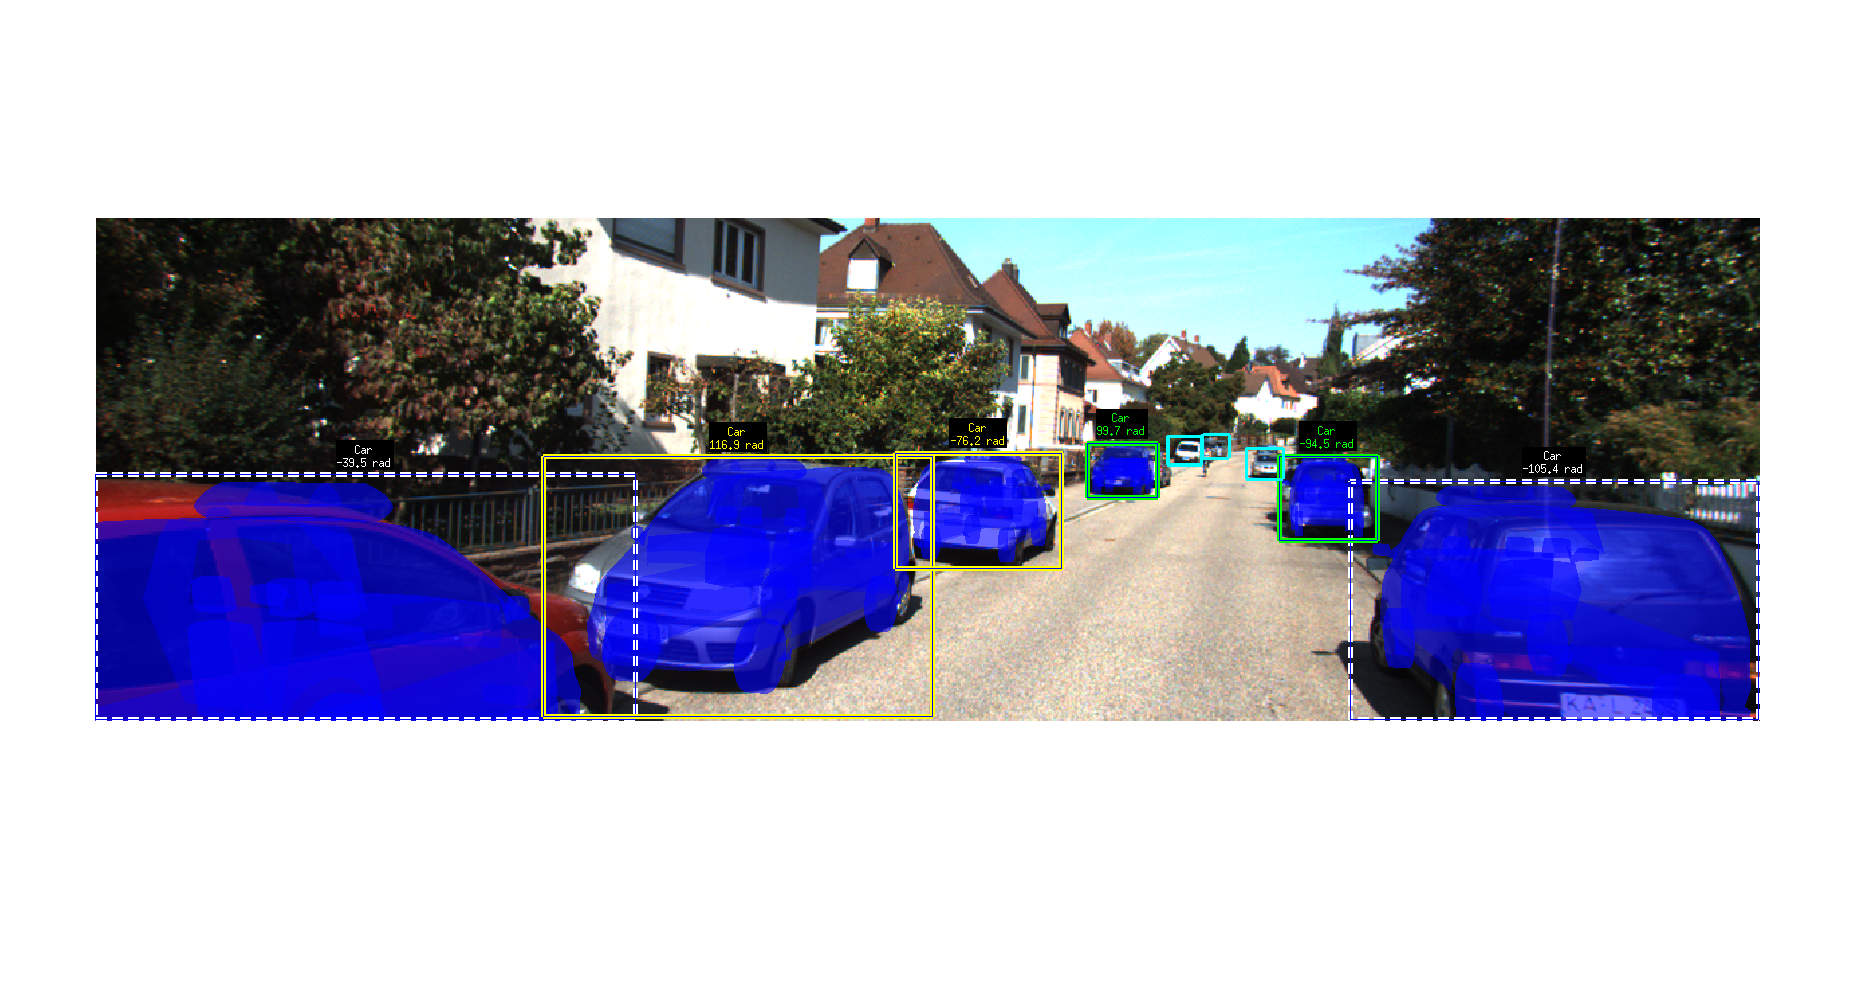
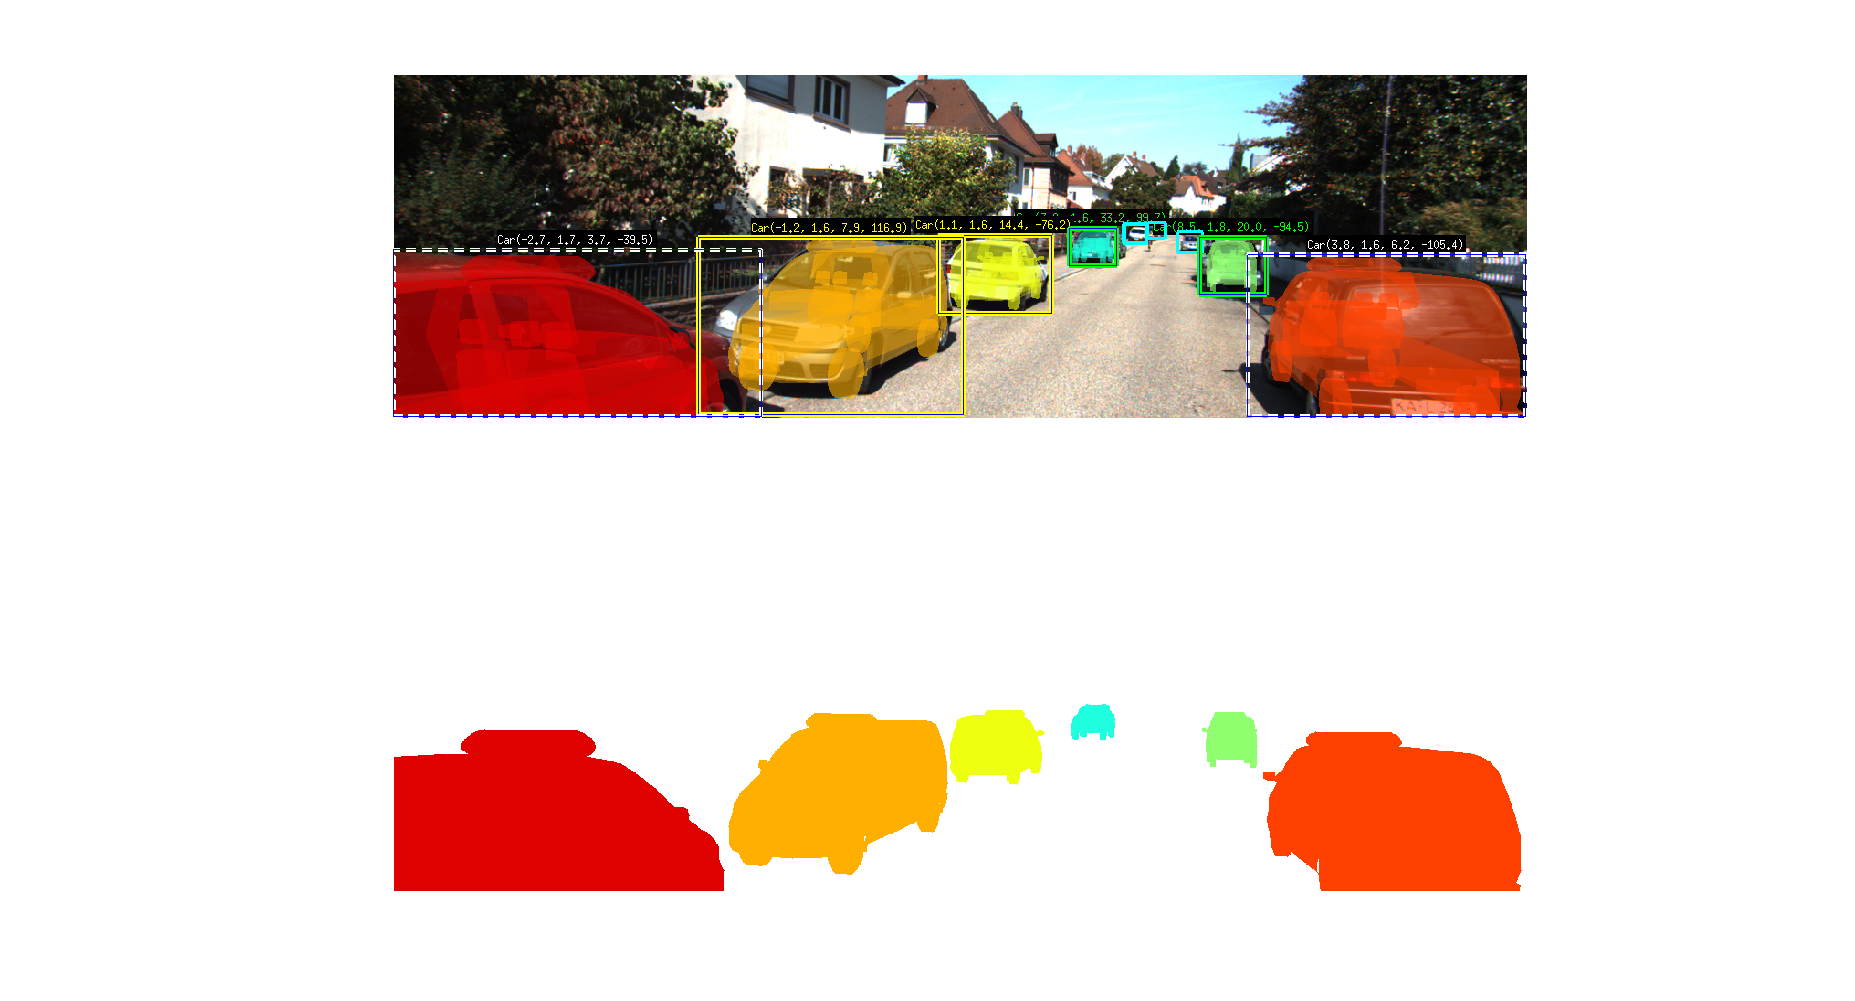
draw occlusion masks

diff --git a/KITTI/mesh_test.cpp b/KITTI/mesh_test.cpp
@@ -1,0 +1,92 @@
+#include <math.h>
+#include <matrix.h>
+#include <mex.h>
+
+#define min(a, b) (((a) <= (b)) ? (a) : (b))
+#define max(a, b) (((a) >= (b)) ? (a) : (b))
+
+void mexFunction(int nlhs, mxArray *plhs[], int nrhs, const mxArray *prhs[])
+{
+      int imgw, imgh;
+      
+      const mwSize *dimsv;
+      double *vertex_in;
+      mxLogical *outArray;
+      imgh = mxGetScalar(prhs[1]);
+      imgw = mxGetScalar(prhs[2]);
+
+      dimsv = mxGetDimensions(prhs[0]);
+
+      int dimsv_1 = (int) dimsv[0];
+
+      vertex_in = mxGetPr(prhs[0]);
+      
+      plhs[0] = mxCreateLogicalMatrix(imgh, imgw);
+      outArray = mxGetLogicals(plhs[0]);
+      
+      double x1,y1,x2,y2,x3,y3, v0x, v0y, v1x, v1y, v2x, v2y;
+      double minx, miny, maxx, maxy;
+      double dot00, dot01, dot02, dot11, dot12, invdenom;
+      double u,v;
+      for (int i = 0; i < dimsv_1; i++)
+      {
+         x1 = round(vertex_in[1 * dimsv_1 + i]);  
+         y1 = round(vertex_in[0 * dimsv_1 + i]);
+         
+         x2 = round(vertex_in[3 * dimsv_1 + i]);
+         y2 = round(vertex_in[2 * dimsv_1 + i]);
+         
+         x3 = round(vertex_in[5 * dimsv_1 + i]);
+         y3 = round(vertex_in[4 * dimsv_1 + i]);
+
+         if (x1 <= 0 || y1 <= 0 || x2 <= 0 || y2 <= 0 || x3 <= 0 || y3 <= 0 || y1 >= imgh || x1 >= imgw || y2 >= imgh || x2 >= imgw || y3>=imgh || x3 >=imgw)
+         {
+           continue;
+         }
+                   
+         minx = min(min(x1,x2),x3);
+         if (minx == 0)
+         {
+           mexPrintf("****** %d %d %d ******\n", x1, x2, x3);
+         }
+         miny = min(min(y1,y2),y3);
+
+         maxx = max(max(x1,x2),x3);
+         maxy = max(max(y1,y2),y3);
+
+         for (int mm = miny; mm <= maxy; mm=mm+1)
+            for (int nn = minx; nn <= maxx; nn=nn+1)
+            {
+               v0x = x3 - x1;
+               v0y = y3 - y1;
+
+               v1x = x2 - x1;
+               v1y = y2 - y1;
+               
+               v2x = double(nn) - x1;
+               v2y = double(mm) - y1;
+               
+               dot00 = v0x * v0x + v0y * v0y;
+               dot01 = v0x * v1x + v0y * v1y;
+               dot02 = v0x * v2x + v0y * v2y;
+               dot11 = v1x * v1x + v1y * v1y;
+               dot12 = v1x * v2x + v1y * v2y;
+
+               invdenom = 1.0 / (dot00 * dot11 - dot01 * dot01);
+               u = (dot11 * dot02 - dot01 * dot12) * invdenom;
+               v = (dot00 * dot12 - dot01 * dot02) * invdenom;
+               if ((u >= 0) && (v >= 0) && (u + v < 1))
+               {
+                  if (((nn-1)*imgh)+mm <= 0 || ((nn-1)*imgh)+mm > (imgh) * (imgw)-1)
+                  {  
+                     mexPrintf("%d %d %d %d ****** \n", ((nn-1)*imgh)+mm, nn, imgh, mm);
+                     continue;
+                  }
+                  outArray[((nn-1)*imgh)+mm] = 1;
+               }
+            }
+
+
+      }
+                                
+}

diff --git a/KITTI/show_annotations.m b/KITTI/show_annotations.m
@@ -2,6 +2,7 @@
 function show_annotations
 
 opt = globals();
+pad_size = 100;
 
 % load PASCAL3D+ cad models
 cls = 'car';
@@ -24,9 +25,14 @@ nimages = length(dir(fullfile(image_dir, '*.png')));
 
 % main loop
 figure(1);
+cmap = colormap(jet);
 for img_idx = 1:nimages-1
-  % show image  
+  % show image
+  subplot(2, 1, 1);
   I = imread(sprintf('%s/%06d.png',image_dir, img_idx));
+  [h, w, ~] = size(I);
+  mask = ones(h, w, 3);
+  mask = padarray(mask, [pad_size pad_size 0]);
   imshow(I);
   hold on;
 
@@ -35,10 +41,13 @@ for img_idx = 1:nimages-1
   
   % load labels
   objects = readLabels(label_dir,img_idx);
+  
+  % sort objects from large distance to small distance
+  index = sort_objects(objects);
  
   % for all annotated objects do
-  for obj_idx=1:numel(objects)
-   
+  for i = 1:numel(index)
+    obj_idx = index(i);
     % plot 2D bounding box
     object = objects(obj_idx);
     draw_2d_box(object);
@@ -48,17 +57,33 @@ for img_idx = 1:nimages-1
         x3d = compute_3d_points(cads(cad_index), object);
         x2d = projectToImage(x3d, P);
         face = cads(cad_index).faces;
+        index_color = 1 + floor((i-1) * size(cmap,1) / numel(index));
         
-        patch('vertices', x2d', 'faces', face, ...
-            'FaceColor', 'blue', 'FaceAlpha', 0.2, 'EdgeColor', 'none');
+        x2d = x2d';
+        patch('vertices', x2d, 'faces', face, ...
+            'FaceColor', cmap(index_color,:), 'FaceAlpha', 0.2, 'EdgeColor', 'none');
+        
+        x2d = x2d + pad_size;
+        vertices = [x2d(face(:,1),2) x2d(face(:,1),1) ...
+                    x2d(face(:,2),2) x2d(face(:,2),1) ...
+                    x2d(face(:,3),2) x2d(face(:,3),1)];
+
+        BW = mesh_test(vertices, h+2*pad_size, w+2*pad_size);
+        
+        for j = 1:3
+            tmp = mask(:,:,j);
+            tmp(BW) = cmap(index_color,j);
+            mask(:,:,j) = tmp;
+        end
     end
-    
-    % plot 3D bounding box
-%     [corners,face_idx] = computeBox3D(objects(obj_idx),P);
-%     orientation = computeOrientation3D(objects(obj_idx),P);
-%     drawBox3D(h, objects(obj_idx),corners,face_idx,orientation);
     
   end
   hold off;
+  
+  subplot(2,1,2);
+  mask = mask(pad_size+1:h+pad_size, pad_size+1:w+pad_size,:);
+  imshow(uint8(255*mask));
+  axis off;  
+  axis equal;
   pause;
 end

diff --git a/KITTI/draw_2d_box.m b/KITTI/draw_2d_box.m
@@ -15,7 +15,8 @@ if ~strcmp(object.type,'DontCare')
   rectangle('Position',pos,'EdgeColor','b');
 
   % draw label
-  label_text = sprintf('%s\n%1.1f rad',object.type,object.alpha*180/pi);
+  label_text = sprintf('%s(%.1f, %.1f, %.1f, %.1f)',object.type, ...
+      object.t(1), object.t(2), object.t(3), object.alpha*180/pi);
   x = (object.x1+object.x2)/2;
   y = object.y1;
   text(x,max(y-5,40),label_text,'color',occ_col{object.occlusion+1},...

diff --git a/KITTI/sort_objects.m b/KITTI/sort_objects.m
@@ -1,0 +1,11 @@
+% sort objects from large distance to small distance
+function index = sort_objects(objects)
+
+num = numel(objects);
+dis = zeros(num, 1);
+
+for i = 1:num
+    dis(i) = norm(objects(i).t);
+end
+
+[~, index] = sort(dis, 'descend');
